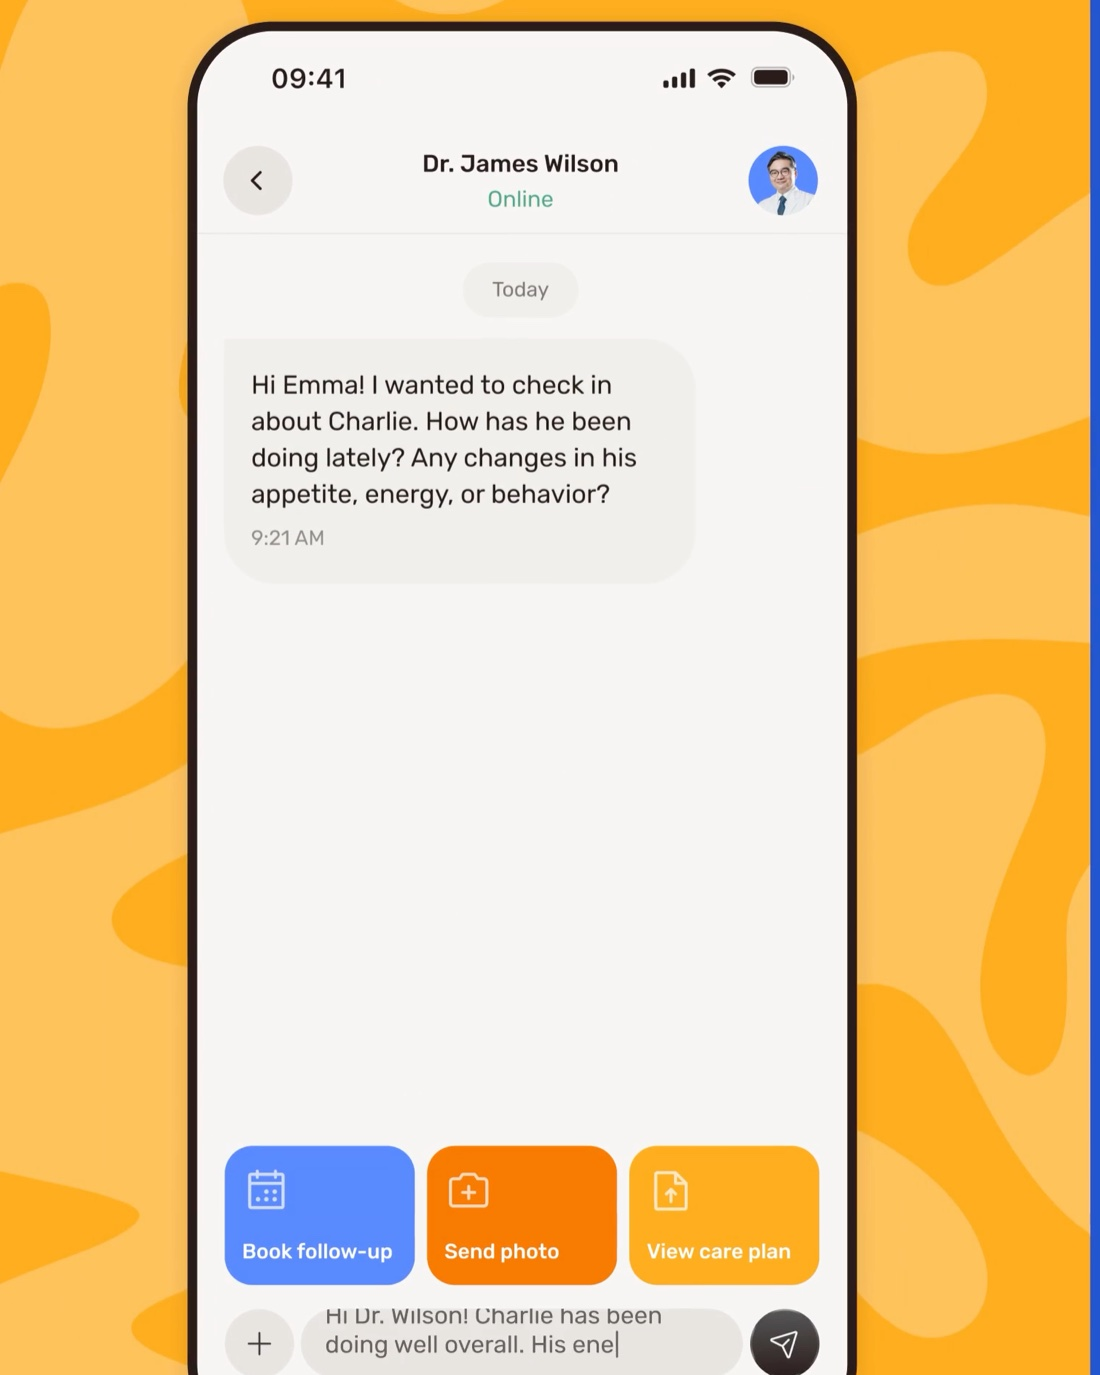
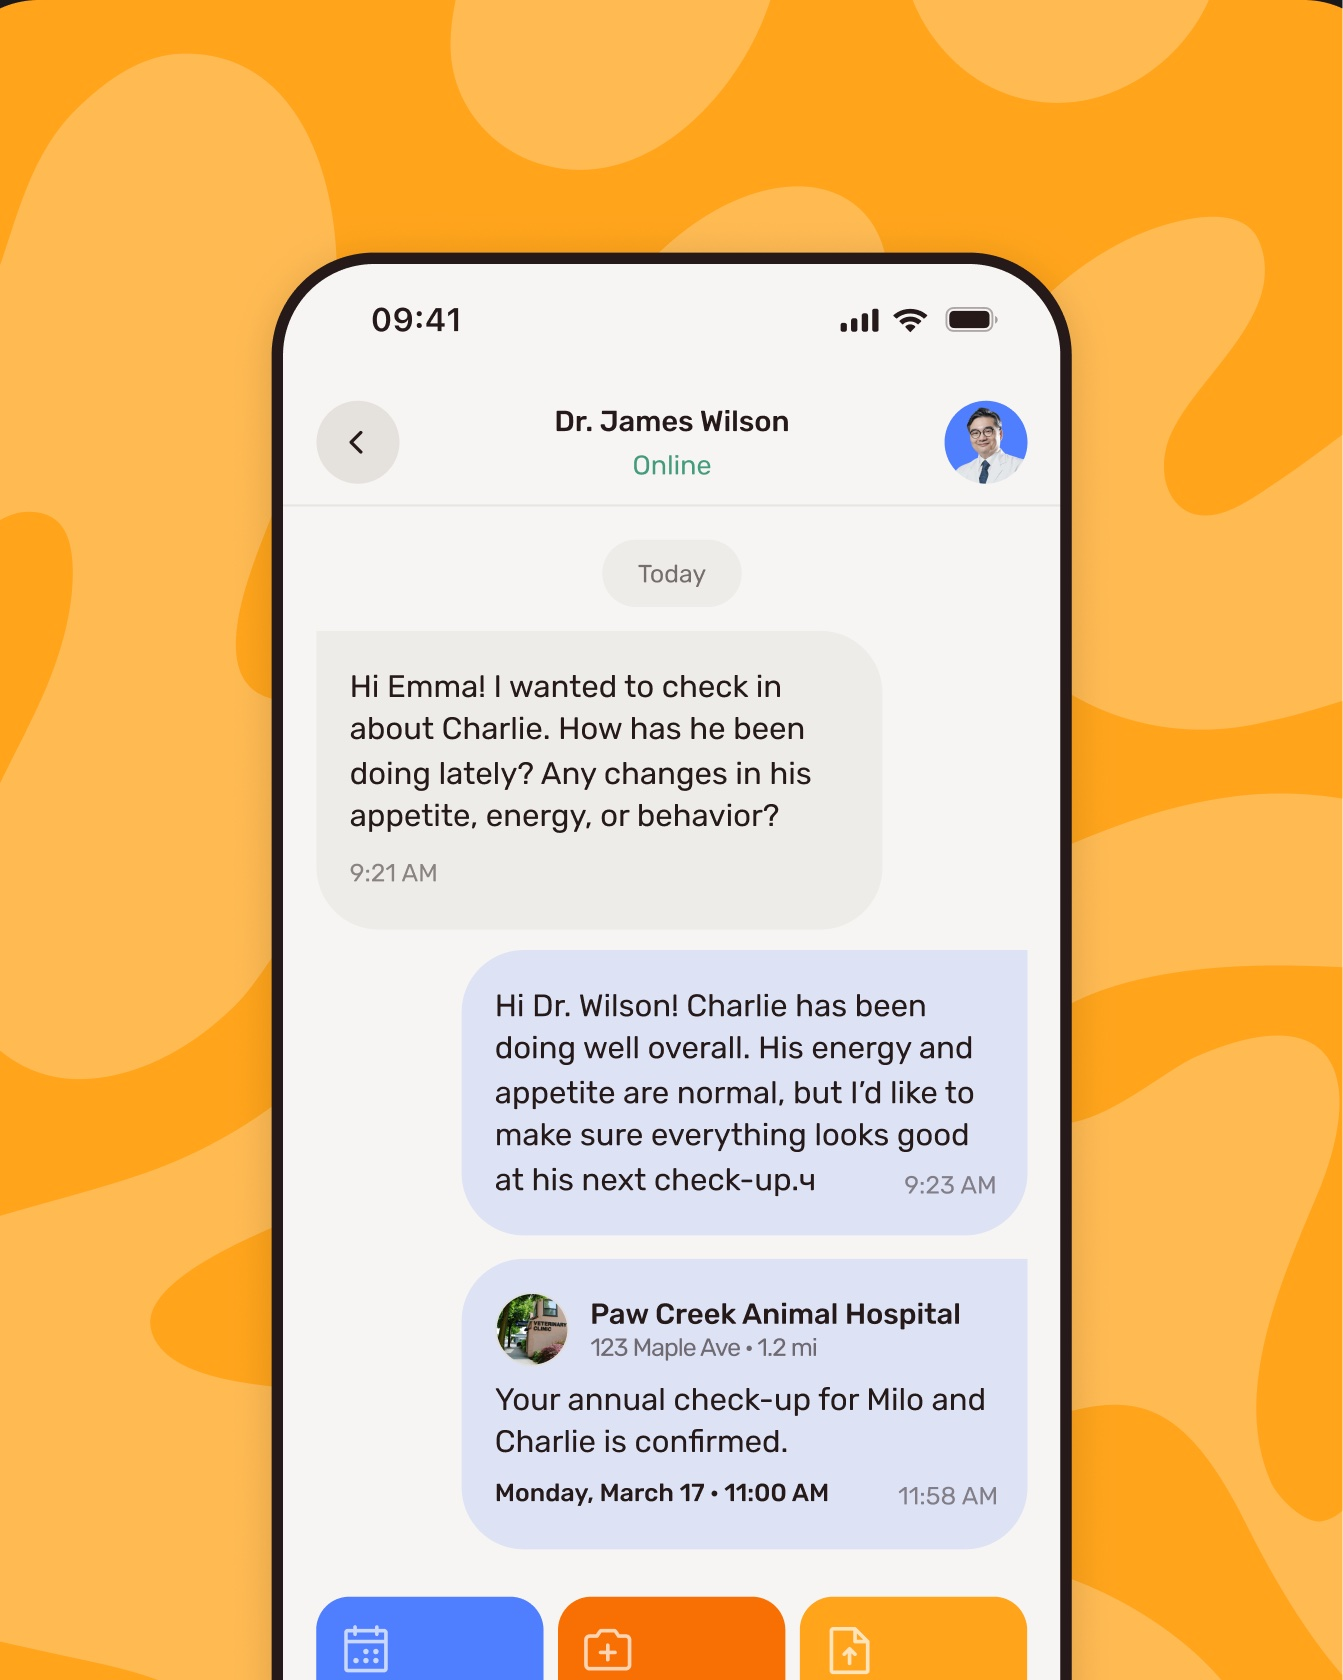
VetLoop case: new images laid out per Figma, video stays first

diff --git a/src/data/works.js b/src/data/works.js
@@ -45,7 +45,7 @@ export const WORKS = [
     ],
     stats: [{ value: "3", label: "directions explored: too cold, almost there, perfect" }, { value: "100%", label: "of the UI crafted by humans" }, { value: "1", label: "team, with shared vision and connected tools" }],
     statsImage: "cases/yousquared/results.mp4" },
-  // VetLoop — тексти, відео й кадри з Dribbble-шота (dribbble.com/shots/27828737-Mobile-App-Pet-Care-Veterinary); картинки — кадри відео. Цифри — чернетка.
+  // VetLoop — тексти, відео й кадри з Dribbble-шота (dribbble.com/shots/27828737-Mobile-App-Pet-Care-Veterinary); розкладка за Figma (кадр 40002594:15906), картинки від дизайнерки; слот поруч з Oliver — кадр відео (у Figma порожній). Цифри — чернетка.
   { slug: "vetloop", name: "VetLoop", industry: "Healthcare", services: ["UI/UX Design", "Branding", "Illustration", "Motion"], description: "A mobile pet care app designed to make veterinary care simpler, more accessible, and stress-free.", image: "cases/vetloop/poster.jpg",
     story: { challenge: "Managing pet health often means juggling appointments, medical records, and vaccination schedules across different channels. The challenge was to create an intuitive mobile experience that simplifies everyday pet care, improves communication with veterinarians, and helps owners stay on top of their pets' health.",
       approach: "A playful visual identity with a vibrant orange and blue palette, expressive shapes, and friendly visuals. An intuitive dashboard with quick access to pets, upcoming appointments, and reminders. Built-in messaging with veterinarians, and clear vaccination and care reminders that help owners stay organized and proactive.",
@@ -53,16 +53,16 @@ export const WORKS = [
     chapters: [
       { layout: "wide", media: [{ src: "cases/vetloop/vetloop.mp4", poster: "cases/vetloop/poster.jpg", label: "VetLoop" }] },
       { label: "Product overview", title: "Vet care, made\nsimple and stress-free.", layout: "head" },
-      { layout: "wide", media: [{ src: "cases/vetloop/collage.jpg", label: "Home" }] },
+      { layout: "wide", media: [{ src: "cases/vetloop/smarter.jpg", label: "Home" }] },
       { layout: "statement", joined: true, text: "A vibrant orange and blue palette, expressive shapes, and friendly visuals create a welcoming experience.",
-        more: [{ layout: "pair", media: [{ src: "cases/vetloop/chat.jpg", label: "Vet chat" }, { src: "cases/vetloop/dashboard.jpg", label: "Dashboard" }] },
-          { layout: "offset", media: [{ src: "cases/vetloop/milo.jpg", label: "Pet profile" }, { src: "cases/vetloop/flow.jpg", label: "Booking" }] }] },
+        more: [{ layout: "pair", media: [{ src: "cases/vetloop/woman.jpg", label: "Pet owner" }, { src: "cases/vetloop/chat.jpg", label: "Vet chat" }] },
+          { layout: "offset", media: [{ src: "cases/vetloop/health.jpg", label: "Health" }, { src: "cases/vetloop/logo.jpg", label: "Logo" }] }] },
       { layout: "statement", text: "Built-in messaging allows pet owners to connect with veterinarians, share updates, and manage follow-ups." },
-      { layout: "wide", textAt: "start", text: "Clear vaccination and care reminders help owners stay organized and proactive.", media: [{ src: "cases/vetloop/booking.jpg", label: "Booking" }],
+      { layout: "wide", textAt: "start", text: "Clear vaccination and care reminders help owners stay organized and proactive.", media: [{ src: "cases/vetloop/flow.jpg", label: "Booking" }],
         more: [{ layout: "offset", reverse: true, media: [{ src: "cases/vetloop/oliver.jpg", label: "Pet profile" }, { src: "cases/vetloop/chat-pets.jpg", label: "Chat" }] }] },
     ],
     stats: [{ value: "3", label: "steps to book a visit: pet, clinic, time" }, { value: "1", label: "app for appointments, vaccinations and vet chat" }, { value: "4", label: "design highlights: identity, dashboard, vet chat, reminders" }],
-    statsImage: "cases/vetloop/bunny.jpg" },
+    statsImage: "cases/vetloop/tilted.jpg" },
   { slug: "gifted", name: "Gifted", industry: "SaaS", services: ["UI/UX Design", "Web Development"], description: "A website for an all-in-one gifting platform that automates employee and client appreciation.",
     story: { challenge: "Gifted is an all-in-one gifting platform that simplifies employee and client appreciation through automated campaigns. The goal was a professional, intuitive interface that balances robust functionality with a delightful user experience, while highlighting key use cases like birthdays, work anniversaries and spot bonuses.",
       approach: "Every section of the homepage is structured around a use case, with scalable layouts, clean navigation, consistent iconography and clear CTAs. The design gives high visibility to real-time reporting, global gift catalogs and HR integrations.",
